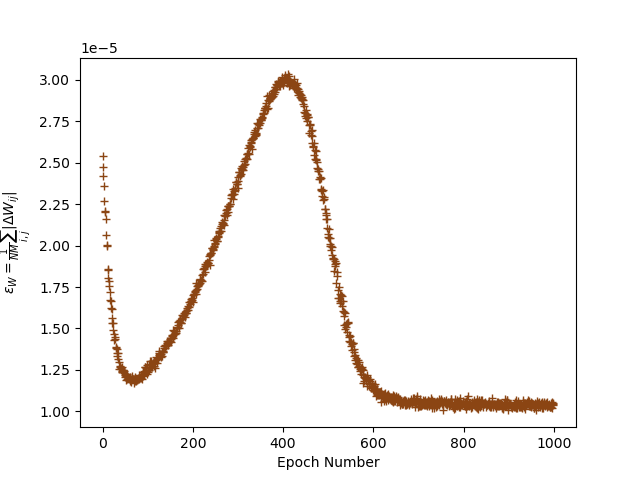
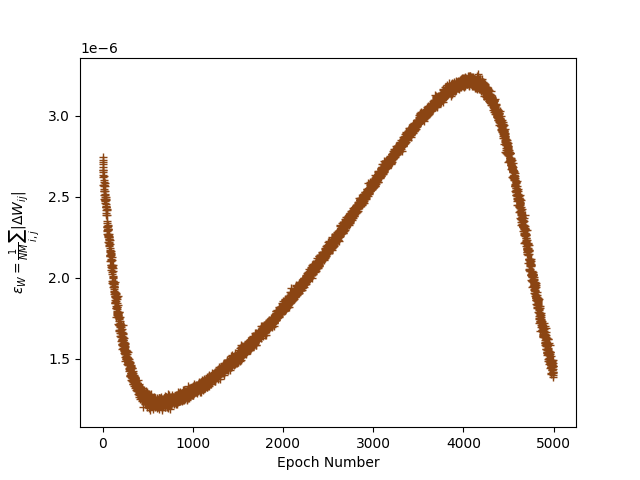
push

diff --git a/RBM_vectorized.py b/RBM_vectorized.py
@@ -27,33 +27,8 @@ class RBM:
         sigma = self.rng.normal(loc=mean, scale=1.0)
 
         return sigma
-
-    def data_average_dw(self, data_set):
-        tau = self.sample_hidden(data_set)
-        de_dw_array = data_set.T @ tau
-        de_dw_array /= len(data_set)
-        
-        return de_dw_array
-
-    def model_average_dw(self, data_set, k):
-        sigma = data_set.copy()
-        tau = self.sample_hidden(sigma)
-
-        for _ in range(k):
-            sigma = self.sample_visible(tau)
-            tau = self.sample_hidden(sigma)
-
-        de_dw_array = sigma.T @ tau
-        de_dw_array /= len(data_set)
-        
-        return de_dw_array
-
-    def data_average_dtheta_v(self, data_set):
-        avg = np.mean(data_set, axis=0)
-        return avg
     
-
-    def model_average_dtheta_v(self, data_set, k):
+    def run_cd_k(self, data_set, k):
         sigma = data_set.copy()
         tau = self.sample_hidden(sigma)
 
@@ -61,41 +36,27 @@ class RBM:
             sigma = self.sample_visible(tau)
             tau = self.sample_hidden(sigma)
 
-        avg = np.mean(sigma, axis=0)
-        return avg
+        return sigma, tau
 
-    def data_average_dtheta_h(self, data_set):
-        tau = self.sample_hidden(data_set)
-        avg = np.mean(tau, axis=0)
-        return avg
+    def update_params(self, eta, k, data_set):
+        tau_data = self.sample_hidden(data_set)
 
-    def model_average_dtheta_h(self, data_set, k):
-        sigma = data_set.copy()
-        tau = self.sample_hidden(sigma)
+        sigma_model, tau_model = self.run_cd_k(data_set, k)
 
-        for _ in range(k):
-            sigma = self.sample_visible(tau)
-            tau = self.sample_hidden(sigma)
-
-        avg = np.mean(tau, axis=0)
-        return avg
-
-    def update_params(self, eta, k, data_set): 
         self.W += eta * (
-            self.data_average_dw(data_set)
-            - self.model_average_dw(data_set, k)
+            (data_set.T @ tau_data) / len(data_set)
+            - (sigma_model.T @ tau_model) / len(data_set)
         )
 
         self.theta_v += eta * (
-            self.data_average_dtheta_v(data_set)
-            - self.model_average_dtheta_v(data_set, k)
+            data_set.mean(axis=0)
+            - sigma_model.mean(axis=0)
         )
 
         self.theta_h += eta * (
-            self.data_average_dtheta_h(data_set)
-            - self.model_average_dtheta_h(data_set, k)
+            tau_data.mean(axis=0)
+            - tau_model.mean(axis=0)
         )
-
     
     def calculate_epsilon_W(self, w_before):
         epsilon_w = np.mean(np.abs(self.W - w_before))
@@ -132,6 +93,12 @@ class RBM:
 
     def visible_mean(self, tau):
         return tau @ self.W.T + self.theta_v
+
+    def hidden_prob(self, sigma):
+        activation = sigma @ self.W + self.theta_h
+        prob = 1.0/(1.0 + np.exp(-activation))
+        return prob
+
 
     def generate_rbm_states(self, num_states=1000, melting_iterations=50000):
         states = []

diff --git a/main.py b/main.py
@@ -5,7 +5,7 @@ import matplotlib.pyplot as plt
 import argparse
 from classes.ecg_viewer import ecg_viewer
 from pathlib import Path
-from RBM import RBM
+from RBM_vectorized import RBM
 
 PTBXL_ROOT = Path("~/ecg_classification/PTB-XL/").expanduser()
 df_stemi = pd.read_csv("persisted_data/stemi_filenames.csv")
@@ -44,10 +44,10 @@ M = 128
 rbm = RBM(N, M)
 
 filename = "persisted_data/test2.npz"
-#rbm.load_model(filename)
+rbm.load_model(filename)
 
-rbm.train_model(eta=.0005, k=2, data_set=data_set,n_epochs=100)
-rbm.save_model(filename)
+#rbm.train_model(eta=.0001, k=5, data_set=data_set,n_epochs=5000)
+#rbm.save_model(filename)
 
 states = rbm.generate_rbm_states()
 states = states*std + mean
@@ -68,8 +68,8 @@ plt.show()
 plt.close()
 
 v0 = data_set[0]
-h = rbm.sample_hidden(v0)
-v1 = rbm.sample_visible(h)
+h = rbm.hidden_prob(v0)
+v1 = rbm.visible_mean(h)
 
 v0 = v0*std + mean
 v1 = v1*std + mean